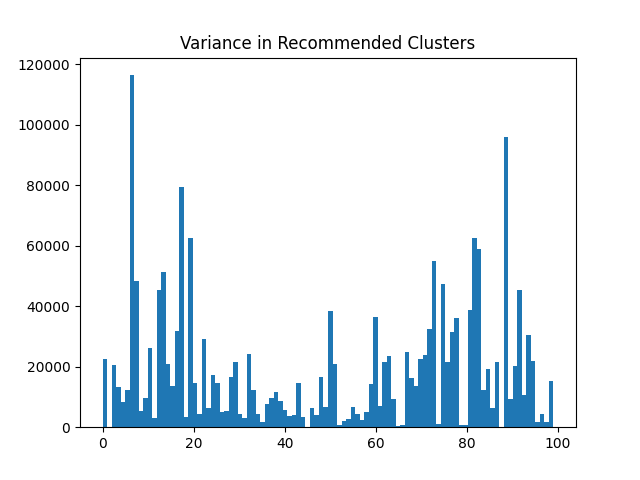
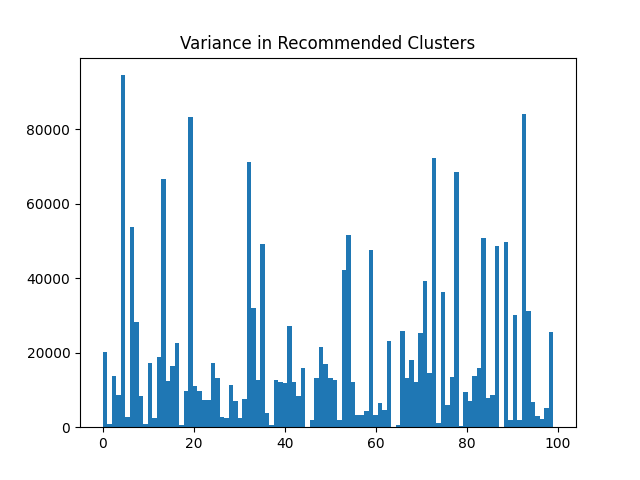
implemented args for run

diff --git a/main.py b/main.py
@@ -4,7 +4,18 @@ import numpy as np
 import warnings
 import os
 import itertools
+import sys
+import time
 
+# Our imports
+import src.utility_matrix as um
+import src.user_clustering as clt
+import src.svd as svd
+import src.combination as comb
+import src.decision_tree as tree
+import src.evaluation as evaluate
+
+# Pandas options
 pd.set_option('display.precision', 10)
 pd.set_option('display.float_format', '{:.2f}'.format)
 pd.set_option('display.max_columns', None)
@@ -12,134 +23,86 @@ pd.set_option('display.max_rows', 100)
 pd.set_option('display.width', None)
 warnings.filterwarnings('ignore')
 
-from sklearn.model_selection import train_test_split
-import src.utility_matrix as um
-import src.user_clustering as clt
-import src.svd as svd
-import src.combination as comb
-import src.decision_tree as tree
-from src.user_clustering import  cluster_users
-from src.combination import create_destination_matrix, create_r_matrix, recommend_best_hotel_cluster, recommend_5_top_hotel_cluster_2
-from src.evaluation import map5eval
+def run(slice):
+    SLICE_LENGTH = int(slice)
 
-preds = np.array([[3,2,4,5,6], [5,3,1,2,4]])
-label = np.array([[10], [30]])
+    # Load train dataset
+    train = pd.read_csv(os.path.join('datasets', '1percent.csv'))
+    print('number of rows in sample', len(train))
 
-smth = map5eval(preds, label)
+    #Create a dataframe only with columns we need. And sort it by user_id.
+    temp = train[['user_id','hotel_cluster','is_booking', 'srch_destination_id']]
+    temp.sort_values(by=['user_id'], inplace=True)
 
-print(smth)
+    # out of 376703 ids, 262231 are unique.
+    print('\n Number of unique User IDs:', temp['user_id'].nunique())
 
+    # Create Rating column for our dataframe.
+    # Where booking == 1, give rating 5 otherwise give rating 1.
+    temp['rating'] = np.where((temp['is_booking'] == 1), 5, 1)
 
-def get_user_cluster():
-    print('NOT IMPLEMENTED')
-    exit()
+    # Create utility matrix out of temp
+    utility_matrix = um.create_utility_matrix(df=temp)
 
-def get_decision_tree():
-    print('NOT IMPLEMENTED')
-    exit()
+    # Then slice it for further analysis.
+    sliced_matrix = utility_matrix[0:SLICE_LENGTH, :]
 
-def process_test(test_ids, train):
-    test_ids['present_in_train'] = test_ids['user_id'].isin(train['user_id'])
-    print(test_ids[test_ids['present_in_train'] == True])
-    test_ids['recommendations'] = np.where((test_ids['present_in_train'] == True), get_user_cluster(), get_decision_tree())
+    # Perform the Cosine Distance Calculation on our sliced matrix.
+    normalised = um.get_distance_matrix(sliced_matrix)
 
+    print(um.calculate_ram(normalised))
 
-# SLICE_LENGTH = 1000
-#
-# # Load our train dataset
-#
-train = pd.read_csv(os.path.join('datasets','1percent.csv'))
-# print('number of rows in sample', len(train))
-#
-# #Create a dataframe only with columns we need. And sort it by user_id.
-# temp = train[['user_id','hotel_cluster','is_booking', 'srch_destination_id']]
-# temp.sort_values(by=['user_id'],inplace=True)
-#
-# # out of 376703 ids, 262231 are unique.
-# print('\n Number of unique User IDs:',temp['user_id'].nunique())
-#
-# # Create Rating column for our dataframe.
-# # Where booking == 1, give rating 5 otherwise give rating 1.
-# temp['rating'] = np.where((temp['is_booking'] == 1),5,1)
-#
-#
-# # Create utility matrix out of temp
-# utility_matrix = um.create_utility_matrix(df=temp)
-#
-# # Then slice it to 1000 rows for further analysis.
-# sliced_matrix = utility_matrix[0:SLICE_LENGTH, :]
-#
-# #Perform the Cosine Distance Calculation on our sliced matrix.
-# normalised = um.get_distance_matrix(sliced_matrix)
-# um.plot_hgram(normalised,'sliced_utility_cosine_normalised'+str(SLICE_LENGTH)+'.png')
-#
-# # Eyad code
-# clustered_df, clusters = cluster_users(normalised,temp)
-# print(clustered_df.head())
-#
-# # Clusters variable is created by Eyads code
-# # Perform SVD on the clustered matrix to reduce sparsity
-# utility_svd_matrix = svd.construct_svd(clusters,sliced_matrix)
-#
-# # Please keep the clusters matrix as its my input. Thanks -Eria :)
-#
-# # remove is_booking column which is no more needed
-# temp = temp.iloc[:, [0, 1, 3, 4]]
-#
-# #  sort by srch_destination_in
-# temp.sort_values(by=['srch_destination_id'], inplace=True)
-#
-# destination_matrix = create_destination_matrix(temp)
-# r_matrix = create_r_matrix(utility_svd_matrix, destination_matrix)
-#
-#
-# # Test our algorithm on one user cluster. Not needed later.
-# user_cluster = 1
-# destination_id = 0
-# top_5_hotels = recommend_5_top_hotel_cluster_2(user_cluster, destination_id, utility_svd_matrix, destination_matrix)
-# print(top_5_hotels)
-#
-# #top_5_hotels = recommend_best_hotel_cluster(user_cluster, r_matrix, destination_matrix)
-# #print(top_5_hotels)
-#
-# user_cluster = 2
-# destination_id = 4
-# top_5_hotels = recommend_5_top_hotel_cluster_2(user_cluster, destination_id, utility_svd_matrix, destination_matrix)
-# print(top_5_hotels)
-#
-# #top_5_hotels = recommend_best_hotel_cluster(user_cluster, r_matrix, destination_matrix)
-# #print(top_5_hotels)
-#
-#
-# clustered_df['recommended_train'] = pd.Series(index=clustered_df.index, dtype=object)
-#
-# # Vectorised implementation doesnt want to work, for now left.
-# #clusters['recommended_train'] = recommend_best_hotel_cluster(clusters['hotel_cluster'], r_matrix, destination_matrix)
-# #clustered_df['recommended_train'] = recommend_5_top_hotel_cluster_2(clustered_df['clusters'],clustered_df['srch_destination_id'],utility_matrix,destination_matrix)
-#
-#
-# for i, row in clustered_df.iterrows():
-#     clustered_df.at[i, 'recommended_train'] = recommend_5_top_hotel_cluster_2(clustered_df.at[i, 'clusters'], clustered_df.at[i, 'srch_destination_id'], utility_svd_matrix, destination_matrix)
-#
-# print('recommended clusters are')
-# print(clustered_df.head(100))
+    #um.plot_hgram(normalised,'sliced_utility_cosine_normalised'+str(SLICE_LENGTH)+'.png')
 
-clustered_df = pd.read_pickle('pickled_1000.pkl')
+    clustered_df, clusters = clt.cluster_users(normalised, temp)
 
-plt.figure()
-plt.title('Variance in Recommended Clusters')
-plt.hist(list(itertools.chain(*clustered_df['recommended_train'].values)),bins=100)
-plt.savefig('figures/hotel_cluster_counts.png')
+    # Perform SVD on the clustered matrix to reduce sparsity
+    utility_svd_matrix = svd.construct_svd(clusters, sliced_matrix)
 
-map5neco = map5eval(clustered_df['recommended_train'].values, clustered_df['hotel_cluster'].values)
-print('map5', map5neco)
+    # remove is_booking column which is no more needed
+    temp = temp.loc[:, ['user_id', 'hotel_cluster', 'srch_destination_id', 'rating']]
+
+    #  sort by srch_destination_in
+    temp.sort_values(by=['srch_destination_id'], inplace=True)
+
+    destination_matrix = comb.create_destination_matrix(temp)
+    r_matrix = comb.create_r_matrix(utility_svd_matrix, destination_matrix)
+
+    clustered_df['recommended_train'] = pd.Series(index=clustered_df.index, dtype=object)
+
+    # Vectorised implementation doesnt want to work, for now left.
+    #clusters['recommended_train'] = recommend_best_hotel_cluster(clusters['hotel_cluster'], r_matrix, destination_matrix)
+    #clustered_df['recommended_train'] = recommend_5_top_hotel_cluster_2(clustered_df['clusters'],clustered_df['srch_destination_id'],utility_matrix,destination_matrix)
+
+    print('\n Calculating Recommendations...  \n')
+
+    for i, row in clustered_df.iterrows():
+        clustered_df.at[i, 'recommended_train'] = comb.recommend_5_top_hotel_cluster_2(clustered_df.at[i, 'clusters'], clustered_df.at[i, 'srch_destination_id'], utility_svd_matrix, destination_matrix)
+    print('recommended clusters are')
+
+    plt.figure()
+    plt.title('Variance in Recommended Clusters')
+    plt.hist(list(itertools.chain(*clustered_df['recommended_train'].values)), bins=100)
+    plt.savefig('figures/hotel_cluster_counts.png')
+
+    map5_score = evaluate.map5eval(clustered_df['recommended_train'].values, clustered_df['hotel_cluster'].values)
+    print('map5', map5_score)
 
 
+    # TEST DATASET FROM HERE
+    #test = pd.read_csv(os.path.join('datasets', 'test.csv'))
+    #test_ids = test[['user_id']]
+    #evaluate.rocess_test(test_ids, train)
 
+if __name__ == '__main__':
 
+    start = time.time()
 
-# TEST DATASET FROM HERE
-test = pd.read_csv(os.path.join('datasets', 'test.csv'))
-test_ids = test[['user_id']]
+    if len(sys.argv) > 1:
+        sl = sys.argv[1]
+    else:
+        sl = 1000
 
-process_test(test_ids, train)
+    print('running recommendation algorithm with slice of', sl)
+    run(slice=sl)
+    print('it took', time.time()-start, 'seconds to run.')

diff --git a/src/evaluation.py b/src/evaluation.py
@@ -1,22 +1,24 @@
 import numpy as np
-import pandas as pd
 
 def map5eval(predicted, actual, k=5):
     #actual = dtrain.get_label()
     #predicted = (-preds).argsort(axis=1)[:,:k]
-
-
-
     y = np.array([np.array(xi) for xi in predicted])
-    print(y)
-
-
-
-
-
     metric = 0.
     for i in range(5):
         metric += np.sum(actual==y[:,i])/(i+1)
     metric /= actual.shape[0]
     return 'MAP@5', metric
 
+def get_user_cluster():
+    print('NOT IMPLEMENTED')
+    exit()
+
+def get_decision_tree():
+    print('NOT IMPLEMENTED')
+    exit()
+
+def process_test(test_ids, train):
+    test_ids['present_in_train'] = test_ids['user_id'].isin(train['user_id'])
+    print(test_ids[test_ids['present_in_train'] == True])
+    test_ids['recommendations'] = np.where((test_ids['present_in_train'] == True), get_user_cluster(), get_decision_tree())

diff --git a/src/utility_matrix.py b/src/utility_matrix.py
@@ -96,10 +96,10 @@ def test_cosine():
     print(dist_out)
 
 
-def calculate_ram(dim_x, dim_y):
-    n = np.zeros((dim_x, dim_y))
-    z = (n.size * n.itemsize)
-    print('Matrix takes: ',z/1000000000,'GB RAM')
+def calculate_ram(matrix):
+    print('slice shape is', matrix.shape[0], matrix.shape[1])
+    z = (matrix.size * matrix.itemsize)
+    print('Matrix takes: ', z/1000000000,'GB RAM')
 
 
 def plot_hgram(matrix,name):

diff --git a/src/combination.py b/src/combination.py
@@ -10,7 +10,7 @@ def create_destination_matrix(subset_data):
     :return: destination matrix
     """
     np_subset_matrix = subset_data.to_numpy()
-    print(np_subset_matrix[:10])
+    #print(np_subset_matrix[:10])
     last_dest_id = np_subset_matrix[-1, 2]
     n_hotel_clusters = 100
 
